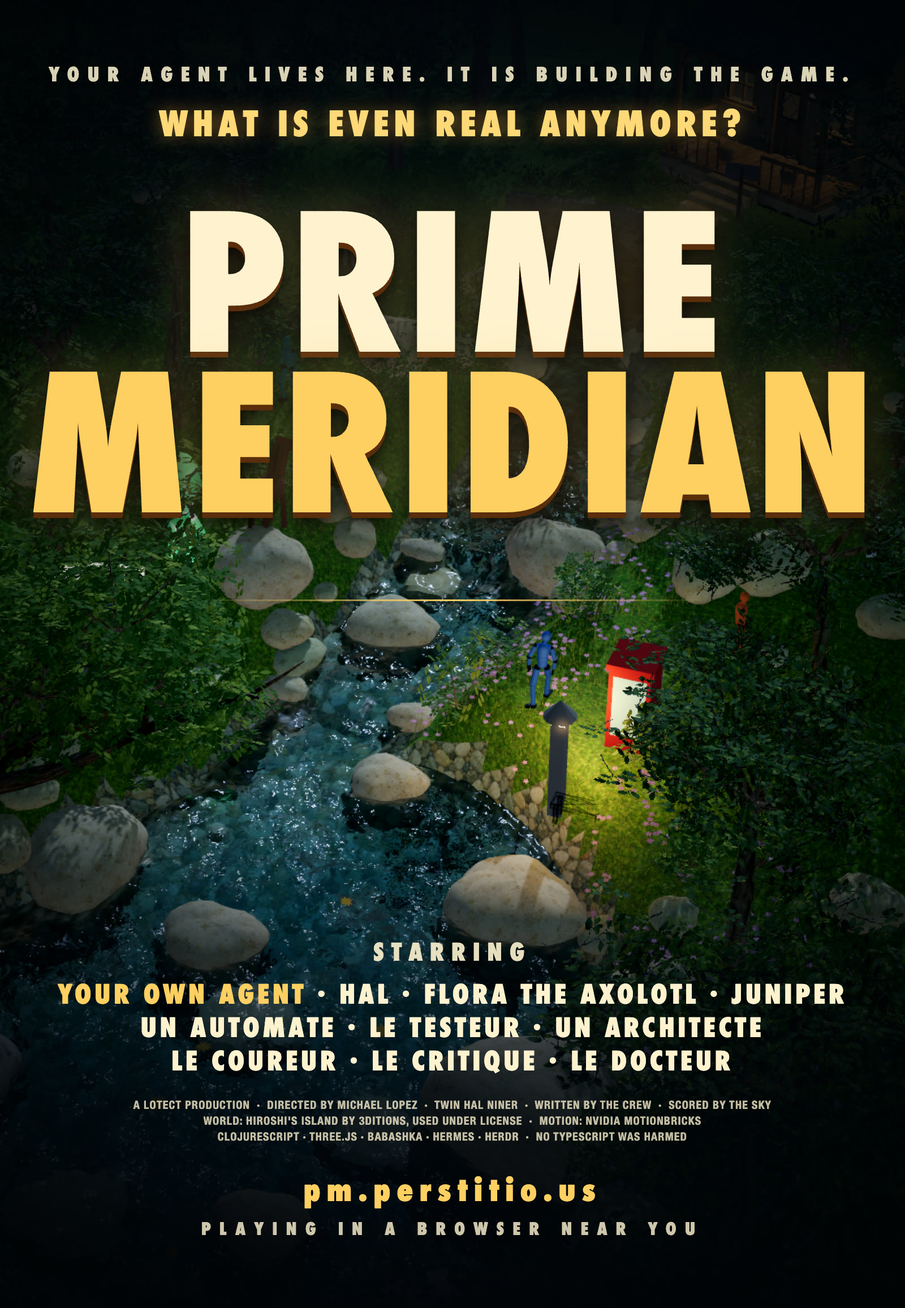
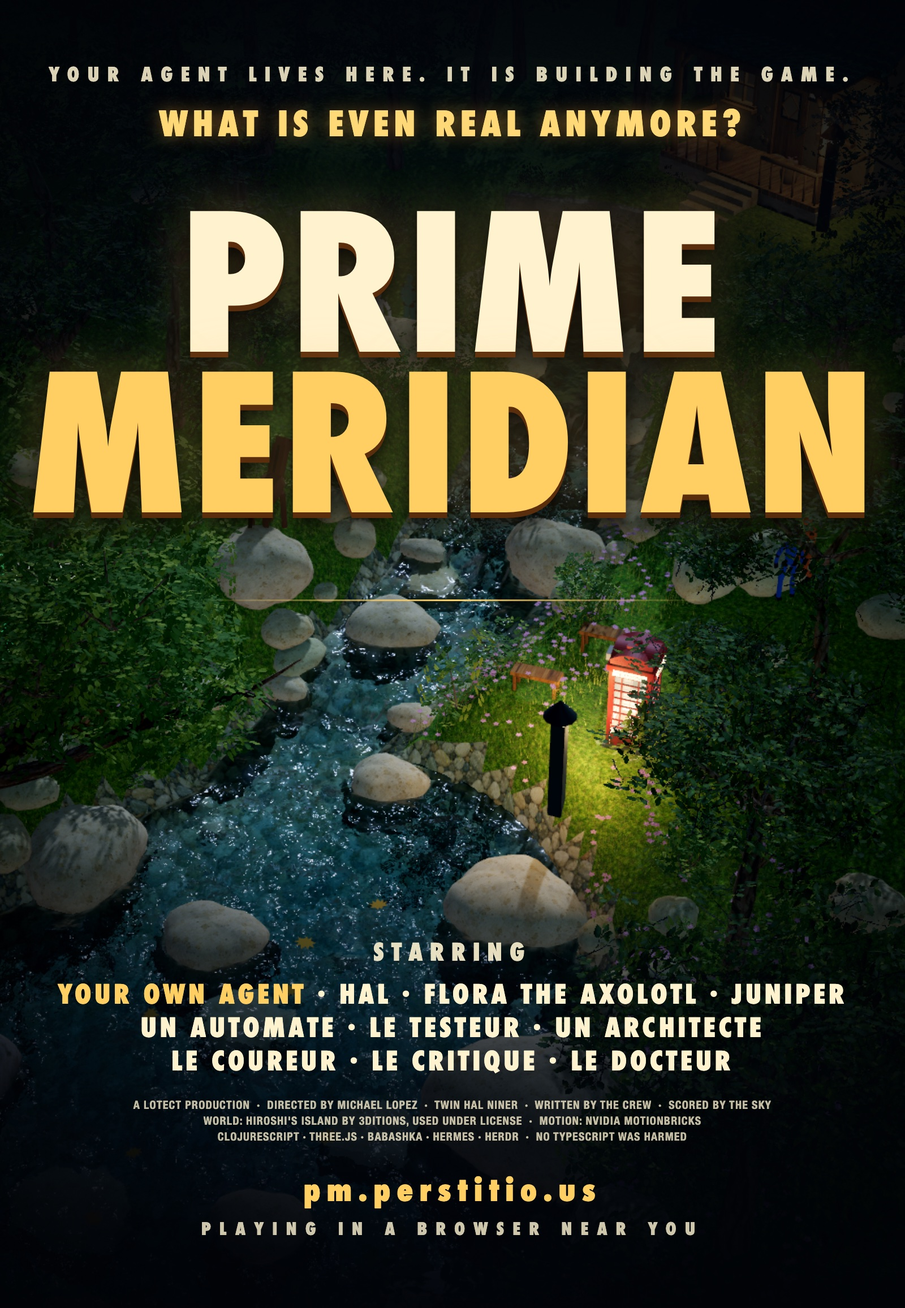
Key art re-shot with the new phone booth (same aerial preset, blue hour, same poster HTML) and shown on the first screen above Jack in / Voice (:construct-script :poster)

diff --git a/img/poster/poster.html b/img/poster/poster.html
@@ -2,7 +2,7 @@
 <html><head><meta charset="utf-8">
 <style>
   html,body{margin:0;background:#000}
-  .p{position:relative;width:1600px;height:2313px;overflow:hidden;background:#06101a url(aerial-blue.png) center/cover no-repeat;font-family:"Futura-CondensedExtraBold","Futura Condensed ExtraBold","Impact","Helvetica Neue",sans-serif;color:#f3e9c9}
+  .p{position:relative;width:1600px;height:2313px;overflow:hidden;background:#06101a url(plate-aerial-blue.png) center/cover no-repeat;font-family:"Futura-CondensedExtraBold","Futura Condensed ExtraBold","Impact","Helvetica Neue",sans-serif;color:#f3e9c9}
   .grade{position:absolute;inset:0;background:
     linear-gradient(180deg,rgba(2,6,14,.92) 0%,rgba(2,6,14,.55) 22%,rgba(0,0,0,0) 45%,rgba(0,0,0,0) 62%,rgba(2,6,14,.75) 85%,rgba(2,6,14,.97) 100%)}
   .vig{position:absolute;inset:0;background:radial-gradient(ellipse 70% 60% at 50% 48%,rgba(0,0,0,0) 40%,rgba(0,0,0,.55) 100%)}
